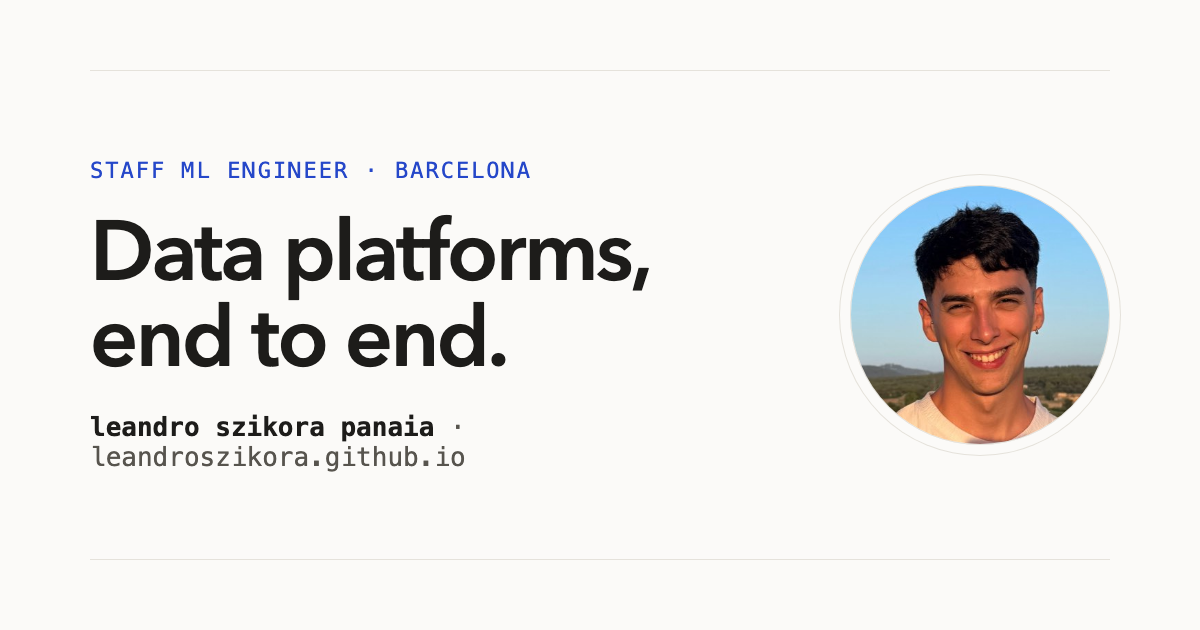
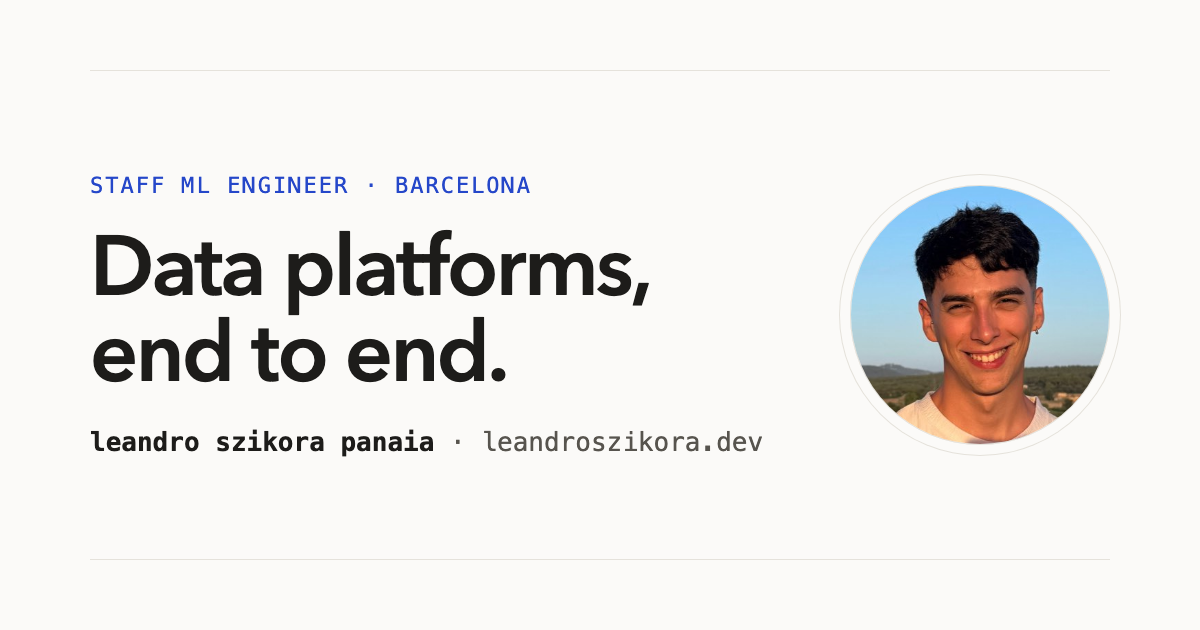
Point the social card at leandroszikora.dev
The og-image still read leandroszikora.github.io: the site URL is baked into
the PNG, and the move to the custom domain did not regenerate it. Anyone
sharing the site on LinkedIn, WhatsApp or Slack saw the old subdomain.

Claude-Session: https://claude.ai/code/session_012SYDACBTSAhguSoCcMJrmp

diff --git a/design/og.html b/design/og.html
@@ -37,7 +37,7 @@
   <div class="text">
     <div class="kicker">STAFF ML ENGINEER · BARCELONA</div>
     <h1>Data platforms,<br>end to end.</h1>
-    <div class="name"><b>leandro szikora panaia</b> · leandroszikora.github.io</div>
+    <div class="name"><b>leandro szikora panaia</b> · leandroszikora.dev</div>
   </div>
   <img class="portrait" src="../public/photo.jpg" alt="">
   <div class="rule-bot"></div>
